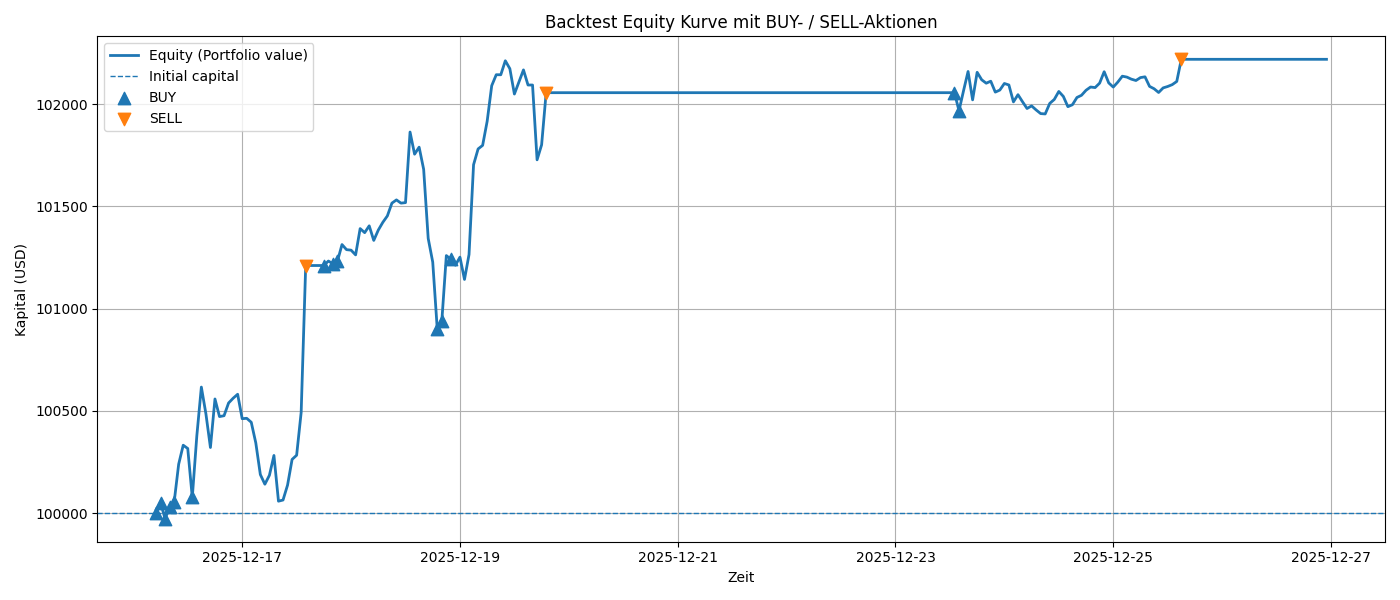
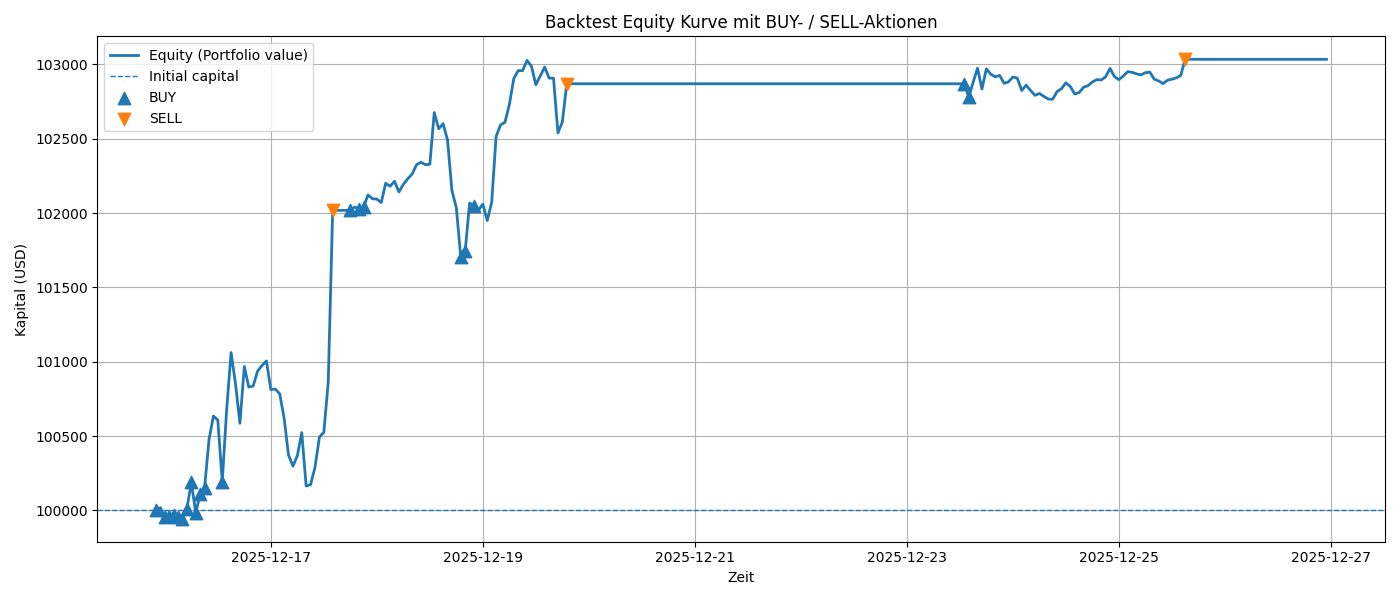
backtesting korrektur

diff --git a/experiments/exp_1_1/scripts/09_model_deployment/backtesting_current_data/backtesting_recent.py b/experiments/exp_1_1/scripts/09_model_deployment/backtesting_current_data/backtesting_recent.py
@@ -164,6 +164,7 @@ def setOrder(predicted, row_index, account, positions, timestamp):
             print(f"   Price: ${current_price:.2f}")
             print(f"   Additional Shares: {additional_shares:.4f}")
             print(f"   Total Shares: {position['shares']:.4f}")
+            print(f"   Account: {account:.4f}")
 
         equity_after = calculate_equity(row_index, positions, account)
         return account, equity_after

diff --git a/experiments/exp_1_1/scripts/09_model_deployment/backtesting_current_data/data_acquisition.py b/experiments/exp_1_1/scripts/09_model_deployment/backtesting_current_data/data_acquisition.py
@@ -15,7 +15,7 @@ params = yaml.safe_load(open("../../../conf/params.yaml"))
 PATH_BARS = params['BACKTESTING_RECENT']['DATA_PATH_RECENT']
 
 # Define time window for recent backtesting data
-start_date = datetime.strptime("2025-12-15", "%Y-%m-%d")
+start_date = datetime.strptime("2025-12-14 17:00:00", "%Y-%m-%d %H:%M:%S")
 end_date = datetime.strptime("2025-12-27", "%Y-%m-%d")
 
 # Initialize Alpaca historical crypto data client

diff --git a/experiments/exp_1_1/scripts/09_model_deployment/backtesting_current_data/normalize_current_data.py b/experiments/exp_1_1/scripts/09_model_deployment/backtesting_current_data/normalize_current_data.py
@@ -57,3 +57,4 @@ X.to_parquet(f"{scaled_recent}/x_test.parquet", index=False)
 X_scaled.to_parquet(f"{scaled_recent}/x_test_scaled.parquet", index=False)
 y_test.to_parquet(f"{scaled_recent}/y_test.parquet", index=False)
 x_test_index_map.to_parquet(f"{scaled_recent}/x_test_index_map.parquet", index=False)
+

diff --git a/experiments/exp_1_1/Exp_1_1.md b/experiments/exp_1_1/Exp_1_1.md
@@ -827,6 +827,7 @@ Insgesamt kann man sagen, dass das Modell und die dazugehörige Trading-Strategi
 Allerding muss man beachten, dass beim Paper Trading nur ein einziges 10-Stunden Fenster betrachtet wurde und dies nicht repräsentativ ist, da es zufällig ein Tag sein kann, in dem, Bitcoin eher fällt.
 Für einen aussagekräftigen Vergleich muss man Paper Trading über einen längeren Zeitraum betrachten.
 
+
 ## Fazit und Next Steps
 
 Das Modell-Training und Testing hat gezeigt:
